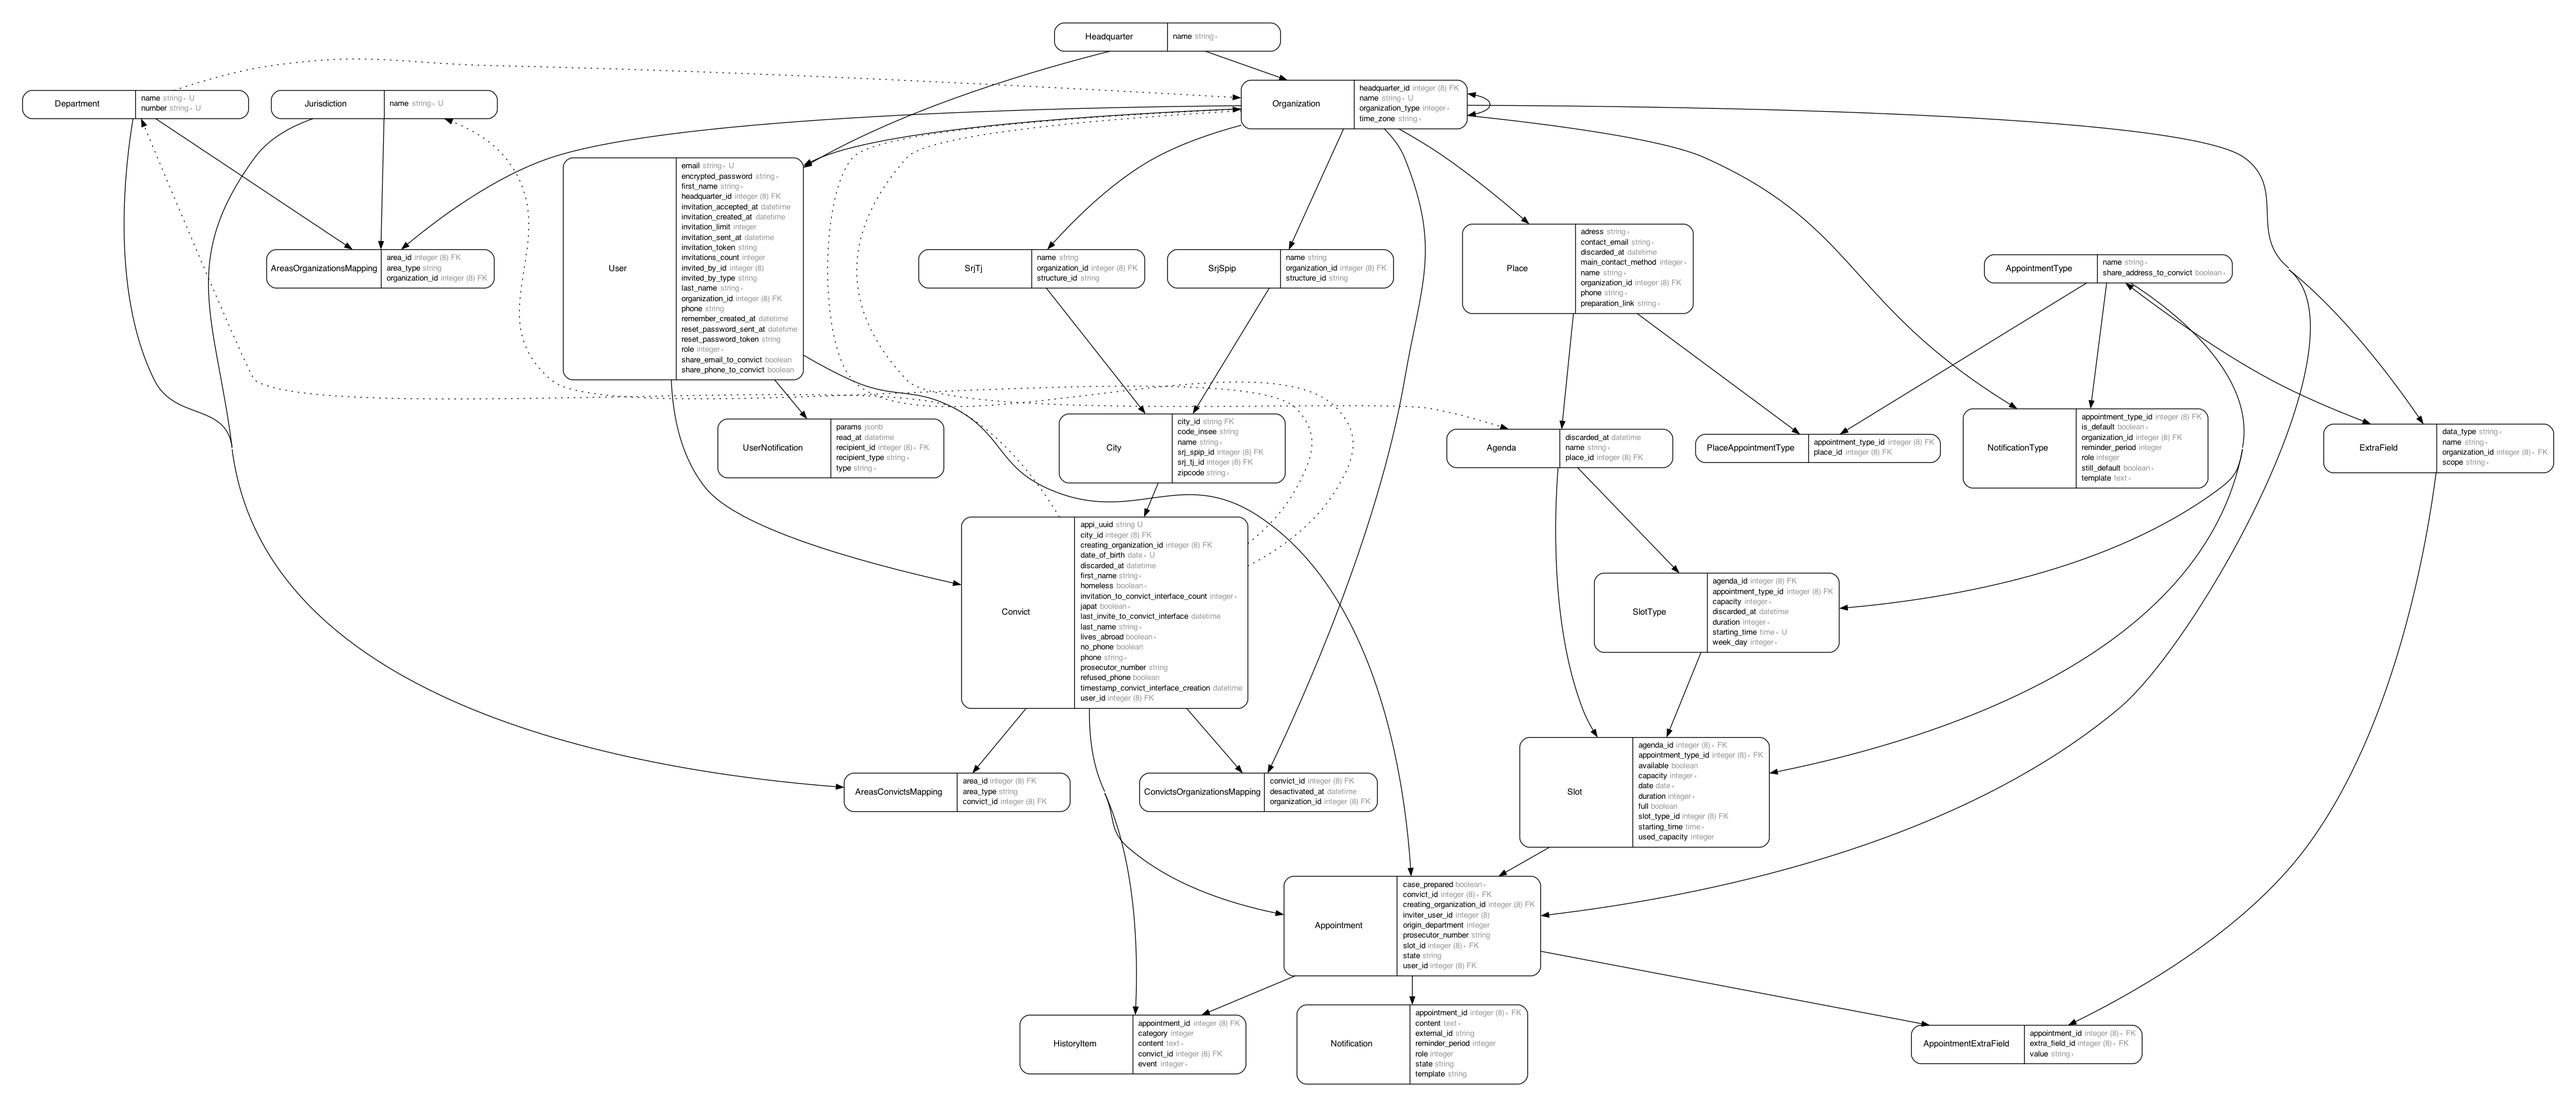
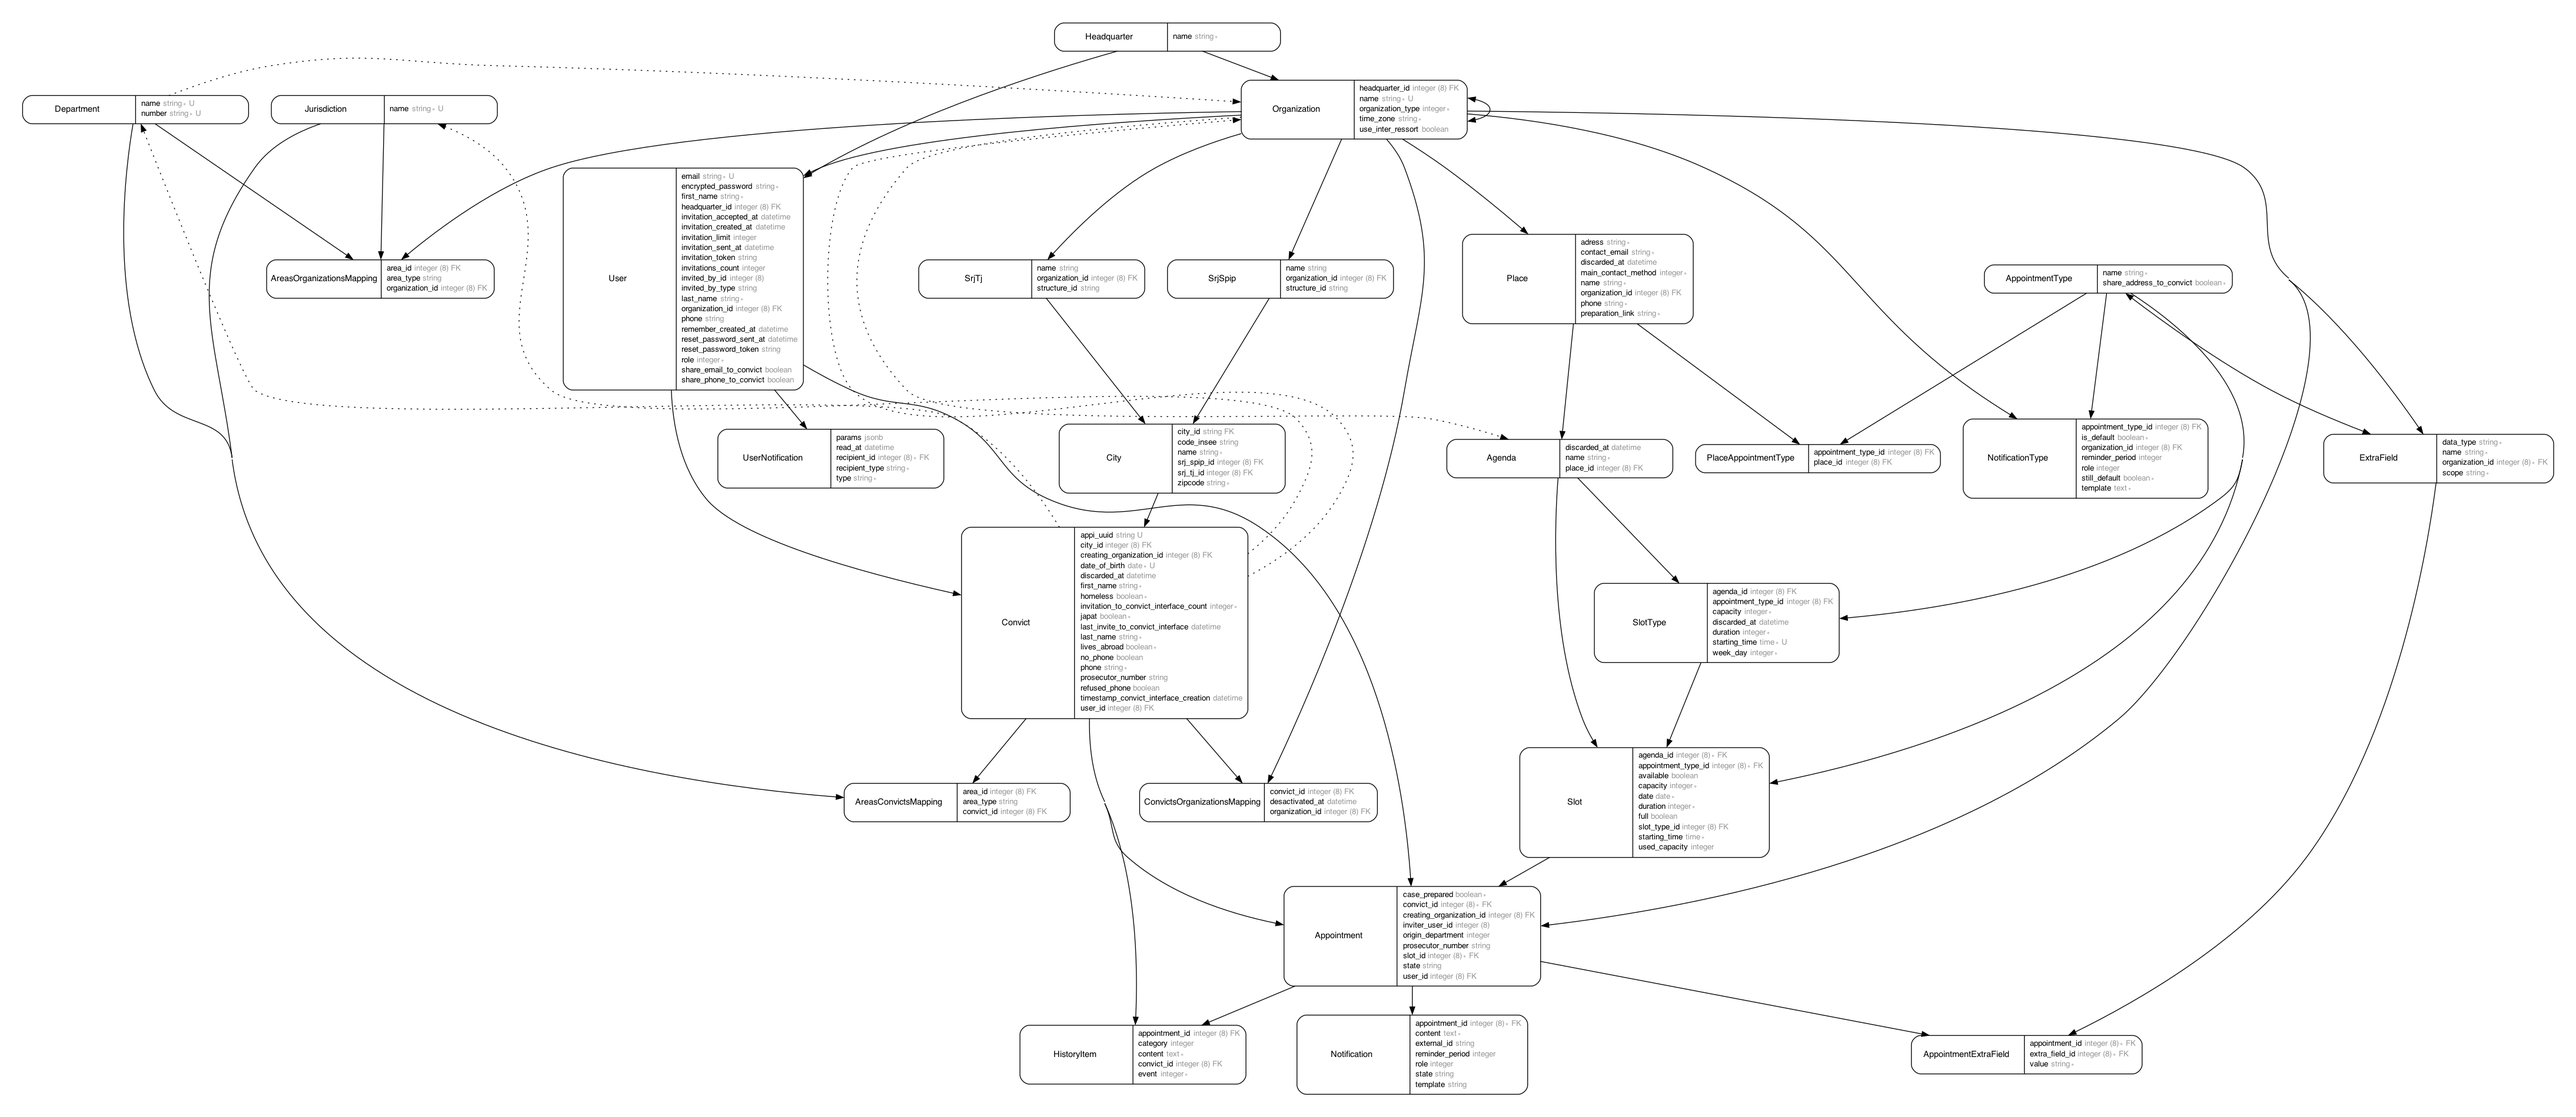
create migration

diff --git a/db/schema.rb b/db/schema.rb
@@ -10,7 +10,7 @@
 #
 # It's strongly recommended that you check this file into your version control system.
 
-ActiveRecord::Schema.define(version: 2023_04_12_080952) do
+ActiveRecord::Schema.define(version: 2023_04_27_123309) do
 
   # These are extensions that must be enabled in order to support this database
   enable_extension "plpgsql"
@@ -323,6 +323,7 @@ ActiveRecord::Schema.define(version: 2023_04_12_080952) do
     t.integer "organization_type", default: 0
     t.string "time_zone", default: "Europe/Paris", null: false
     t.bigint "headquarter_id"
+    t.boolean "use_inter_ressort", default: false
     t.index ["headquarter_id"], name: "index_organizations_on_headquarter_id"
     t.index ["name"], name: "index_organizations_on_name", unique: true
   end

diff --git a/db/migrate/20230427123309_add_use_inter_ressort_to_organization.rb b/db/migrate/20230427123309_add_use_inter_ressort_to_organization.rb
@@ -1,0 +1,5 @@
+class AddUseInterRessortToOrganization < ActiveRecord::Migration[6.1]
+  def change
+    add_column :organizations, :use_inter_ressort, :boolean, default: false
+  end
+end
